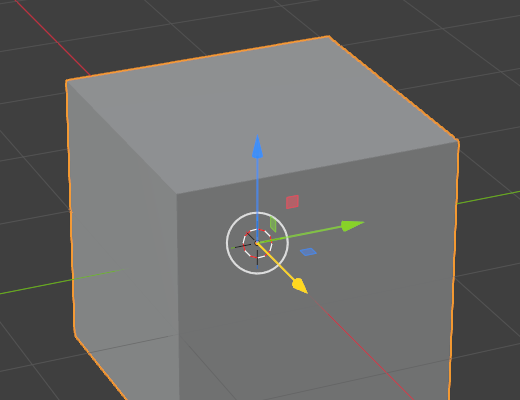
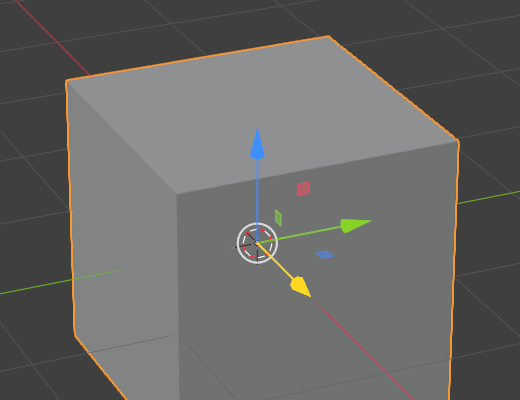
Chunkier arrow heads and scale boxes, and verify edit mode and snapping
The move arrow heads and scale handle boxes read slimmer than Blender's.
The obvious lever, the arrow gizmo's aspect property, turns out to be a
no-op: sweeping it from 1.0 to 4.5 on both the arrow and box styles
produced pixel-identical frames, so despite being documented as
"cone/box style only" it does nothing for either in 5.1.

What does work is scale_basis, which sizes the head, paired with length
pulling the shaft back so the tip stays where it was. Values were picked
by sweeping the pair against a native capture at matching view and
interface scale; 0.70 overran the native boxes by roughly half again, so
the pair settles between there and the previous value.

The centre handle was oversized from the previous round's calibration and
is back in proportion.

Edit Mode and snapping were checked rather than assumed, and both already
worked. Edit Mode: the gizmo appears with the Move/Rotate/Scale tool, the
pivot follows the selected geometry, and the highlight, handle drags and
the middle mouse drag all transform the selection. With the Tweak tool no
gizmo appears, which is what Blender does too -- tools are per-mode, so
entering Edit Mode reverts to Tweak. Snapping: increment snapping landed
both a handle drag and a middle mouse drag on exactly 2.00000, because
the transform operators are invoked without setting `snap` and so inherit
the scene's snapping settings the way the native gizmo does.

Three suites pass against Blender 5.1.2: gizmo, edit mode plus snapping,
[…]

diff --git a/gizmo.py b/gizmo.py
@@ -36,9 +36,9 @@ _suppressed_for = None
 #: Handle sizes, in gizmo units. Measured against the native gizmo on screen:
 #: each primitive type has its own scale convention, so these are calibrated
 #: rather than derived.
-AXIS_SCALE = 0.44
+AXIS_SCALE = 0.58
 PLANE_SCALE = 0.028
-CENTRE_SCALE = 0.14
+CENTRE_SCALE = 0.09
 DIAL_SCALE = 0.44
 VIEW_DIAL_SCALE = 0.60
 
@@ -60,6 +60,14 @@ VIEW_RING_LINE_WIDTH = 0.9
 
 ALPHA = 0.7
 ALPHA_HIGHLIGHT = 1.0
+
+#: Head proportions. ``aspect`` turns out to be a no-op for both the arrow and
+#: box styles, so the head is sized through ``scale_basis`` (which scales the
+#: head) while ``length`` pulls the shaft back to keep the tip in place.
+MOVE_ARROW_STYLE = 'NORMAL'
+#: Shaft length, pulled back so the bigger head does not push the tip out.
+#: AXIS_SCALE * ARROW_LENGTH is what sets where the arrow ends.
+ARROW_LENGTH = 0.76
 
 AXIS_NAMES = ('X', 'Y', 'Z')
 
@@ -483,6 +491,12 @@ class MGB_GGT_transform(GizmoGroup):
                 gz.matrix_basis = translation @ _aim(axes[index])
                 gz.scale_basis = AXIS_SCALE
                 gz.line_width = AXIS_LINE_WIDTH * ui_scale
+                try:
+                    gz.length = ARROW_LENGTH
+                    if kind == state.TRANSLATE:
+                        gz.draw_style = MOVE_ARROW_STYLE
+                except Exception:
+                    pass
                 base = colors[index]
             elif role == 'plane':
                 u, v, normal = PLANES[index]

diff --git a/CHANGELOG.md b/CHANGELOG.md
@@ -3,6 +3,28 @@
 All notable changes to this project are documented here. This project follows
 [Semantic Versioning](https://semver.org/spec/v2.0.0.html).
 
+## [1.2.2] - 2026-08-11
+
+### Fixed
+
+- Move arrow heads and scale handle boxes are chunkier, closer to Blender's
+  own. ``aspect`` turns out to be a no-op on both the arrow and box styles, so
+  the head is sized through ``scale_basis`` with ``length`` pulled back to keep
+  the arrow tip where it was.
+- The centre handle was oversized after the previous round's calibration and is
+  back in proportion with the native one.
+
+### Verified
+
+- **Edit Mode**: the gizmo appears with the Move/Rotate/Scale tool, the pivot
+  follows the selected geometry, and the axis highlight, handle drags and the
+  middle mouse drag all transform the selection. With the Tweak tool no gizmo
+  is shown, matching Blender.
+- **Snapping**: scene snapping applies to both handle drags and the middle
+  mouse drag. The transform operators are invoked without overriding `snap`,
+  so they pick up the scene's snapping settings exactly as the native gizmo
+  does.
+
 ## [1.2.1] - 2026-08-11
 
 ### Fixed
@@ -97,6 +119,8 @@ Initial release.
 - The right-mouse-drag orbit is skipped automatically on the right-click-select
   keymap, where right mouse already selects.
 
+[1.2.2]: https://github.com/cubosaur/maya-gizmo-for-blender/releases/tag/v1.2.2
+[1.2.1]: https://github.com/cubosaur/maya-gizmo-for-blender/releases/tag/v1.2.1
 [1.2.0]: https://github.com/cubosaur/maya-gizmo-for-blender/releases/tag/v1.2.0
 [1.1.0]: https://github.com/cubosaur/maya-gizmo-for-blender/releases/tag/v1.1.0
 [1.0.0]: https://github.com/cubosaur/maya-gizmo-for-blender/releases/tag/v1.0.0

diff --git a/README.md b/README.md
@@ -172,6 +172,9 @@ the handle rather than like a scripted nudge.
   approximates.
 - The gizmo pivot is computed properly for Object Mode, Edit Mode (mesh) and
   Pose Mode. Other edit modes fall back to the object origin.
+
+Edit Mode and snapping both work: the gizmo follows the selected geometry, and
+scene snapping applies to handle drags and to the middle mouse drag alike.
 - On the **right-click-select** keymap the RMB-drag orbit is skipped
   automatically, since right mouse already selects there. Everything else works.
 - In **sculpt and paint modes** right mouse is bound to brush stencil controls,
